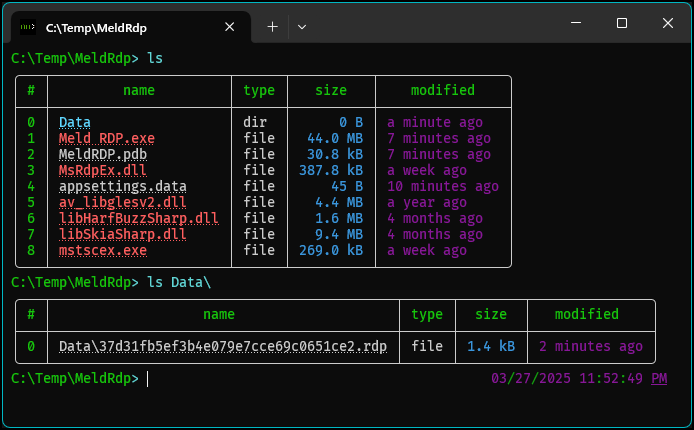
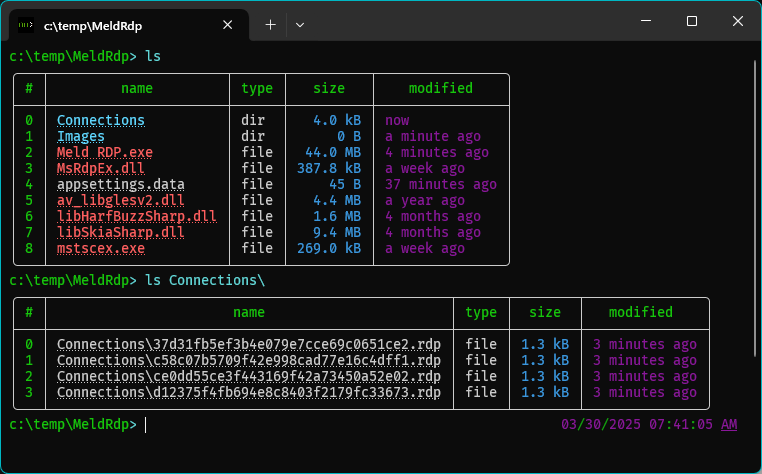
update readme and screenshots

Changed region(s): [[0.0, 0.0, 1.0, 1.0]]

diff --git a/README.md b/README.md
@@ -21,6 +21,7 @@ can also find the link in the application.
 - [x] Multi-monitor span support
 - [x] Keep session alive
 - [x] Light and Dark theme support (follows OS setting)
+- [x] Custom connection backgrounds
 
 
 ## Quick Start
@@ -35,16 +36,16 @@ and click `Save`.
 <img src="Assets/screenshots/edit-ex.png"/>
 
 - Once the RDP edit window is closed, a simpler edit window will pop up where you can give
-your connection a Name and Group, click `Save` to close when done.
+your connection an optional Name, Group and Background image. Click `Save` to close when done.
 
 <img src="Assets/screenshots/edit.png"/>
 
-- Your connection will now appear in the main window. Click it (or <kbd>Ctrl + 1</kbd>)
+- Your connection will now appear in the main window. Click it (or press <kbd>Ctrl + 1</kbd>)
 to start the connection.
 
 <img src="Assets/screenshots/main-window-example.png"/>
 
-- All RDP files are saved in the `Data` folder in the same directory as the application.
+- All RDP files are saved in the `Connections` folder in the same directory as the application.
 
 <img src="Assets/screenshots/dir.png"/>
 
